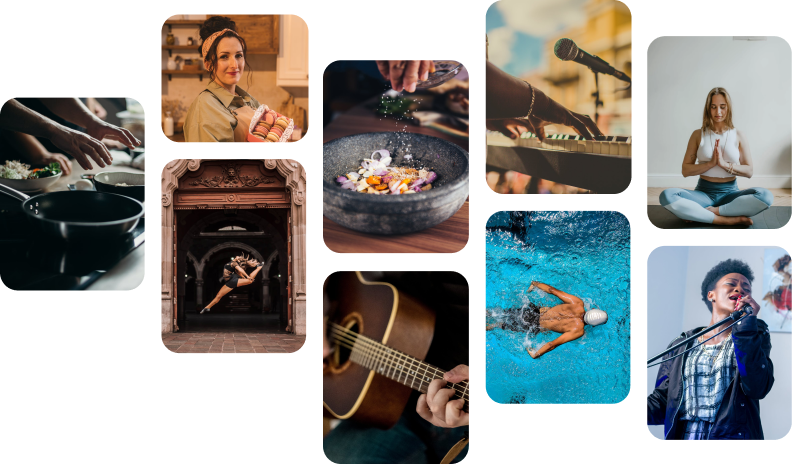
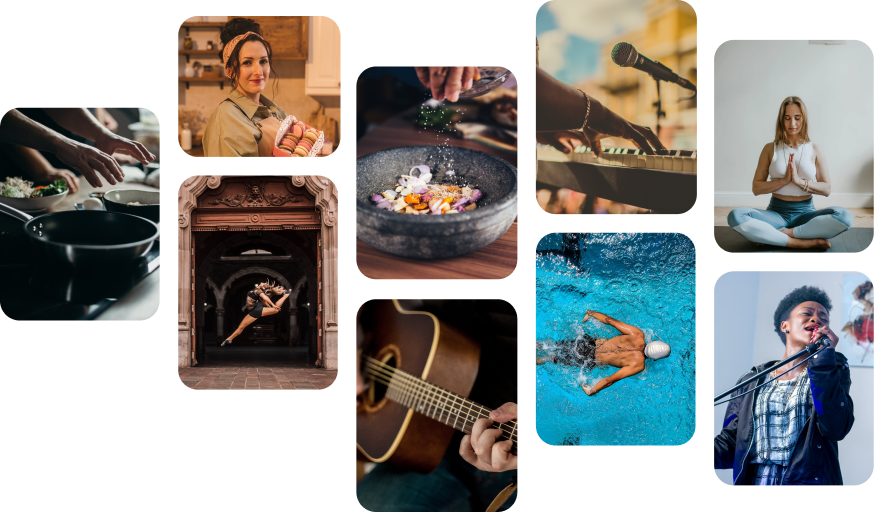
added the hero section and styled it

diff --git a/airbnb-clone/style.css b/airbnb-clone/style.css
@@ -1,0 +1,63 @@
+body {
+  margin: 0;
+  padding: 0;
+}
+* {
+  box-sizing: border-box;
+  margin: 0;
+  padding: 0;
+}
+
+.nav--container {
+  box-shadow: 0px 6px 3px 3px rgba(0, 0, 0, 0.3);
+  height: 3rem;
+  margin-bottom: 1rem;
+}
+.nav--container img {
+  padding: 12px 23px;
+  max-width: 200px;
+}
+
+.main--hero--section--container {
+  display: flex;
+  flex-direction: column;
+  background-color: #ffffff;
+  width: 100vw;
+  height: max-content;
+}
+.main--hero--section--image--container {
+  /* flex properties */
+  justify-self: center;
+  align-self: center;
+  /* end of flex properties */
+
+  margin: 1rem auto;
+  width: 50vw;
+  height: auto;
+}
+.main--hero--section--image {
+  width: 100%;
+  height: auto;
+}
+.main--hero--content--container {
+  /* flex properties */
+  align-items: flex-start;
+  justify-self: center;
+  /* end of flex properties */
+
+  width: 50vw;
+  margin: auto 2rem;
+  height: fit-content;
+  padding: 1rem auto;
+}
+
+.main--hero--content--container h1 {
+  font-size: 3rem;
+  text-align: center;
+}
+
+.main--hero--content--container p {
+  font-size: 1.7rem;
+  letter-spacing: 2px;
+  margin-top: 1.5rem auto;
+}

diff --git a/airbnb-clone/src/components/HeroSectionContent.jsx b/airbnb-clone/src/components/HeroSectionContent.jsx
@@ -1,0 +1,14 @@
+import React from "react";
+
+export default function HeroContent() {
+  return (
+    <div className="main--hero--content--container">
+      <h1>Online Experiences</h1>
+      <p>
+        Lorem ipsum, dolor sit amet consectetur adipisicing elit. Qui quas
+        numquam laudantium voluptatem fugiat quidem veniam magni quibusdam dicta
+        magnam quia maxime est deserunt quisquam esse nulla.
+      </p>
+    </div>
+  );
+}

diff --git a/airbnb-clone/src/components/main.jsx b/airbnb-clone/src/components/main.jsx
@@ -1,11 +1,11 @@
-import React from 'react'
-import ReactDOM from 'react-dom'
-import './index.css'
-import App from './App'
+import React from "react";
+import ReactDOM from "react-dom";
+import "../../style.css";
+import App from "./App";
 
 ReactDOM.render(
   <React.StrictMode>
     <App />
   </React.StrictMode>,
-  document.getElementById('root')
-)
+  document.getElementById("root")
+);

diff --git a/airbnb-clone/src/components/HeroSectionImage.jsx b/airbnb-clone/src/components/HeroSectionImage.jsx
@@ -1,0 +1,13 @@
+import React from "react";
+
+export default function HeroImage() {
+  return (
+    <div className="main--hero--section--image--container">
+      <img
+        className="main--hero--section--image"
+        src="./src/images/image-grid.png"
+        alt=""
+      />
+    </div>
+  );
+}

diff --git a/airbnb-clone/src/components/HeroSection.jsx b/airbnb-clone/src/components/HeroSection.jsx
@@ -1,0 +1,12 @@
+import React from "react";
+import HeroContent from "./HeroSectionContent";
+import HeroImage from "./HeroSectionImage";
+
+export default function () {
+  return (
+    <div className="main--hero--section--container">
+      <HeroImage />
+      <HeroContent />
+    </div>
+  );
+}

diff --git a/airbnb-clone/src/components/App.jsx b/airbnb-clone/src/components/App.jsx
@@ -1,10 +1,12 @@
 import React from "react";
+import HeroSection from "./HeroSection";
 import Nav from "./Nav";
 
 function App() {
   return (
     <>
       <Nav />
+      <HeroSection />
     </>
   );
 }
